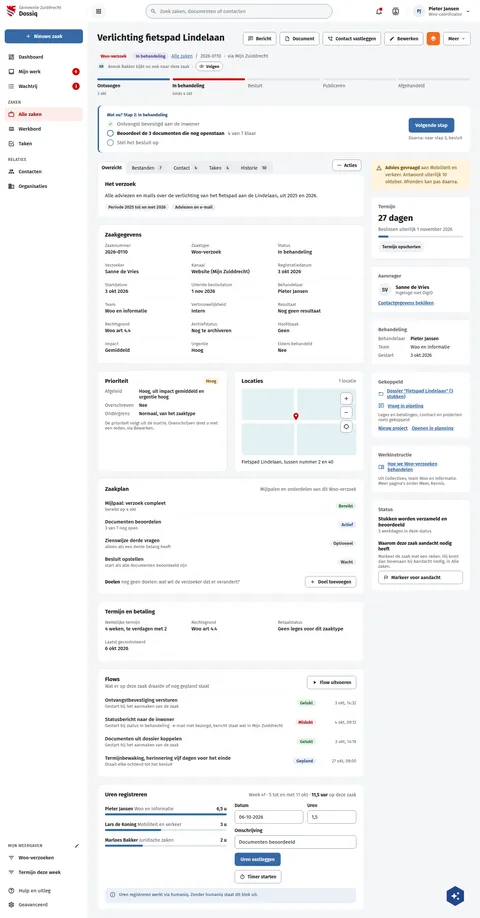
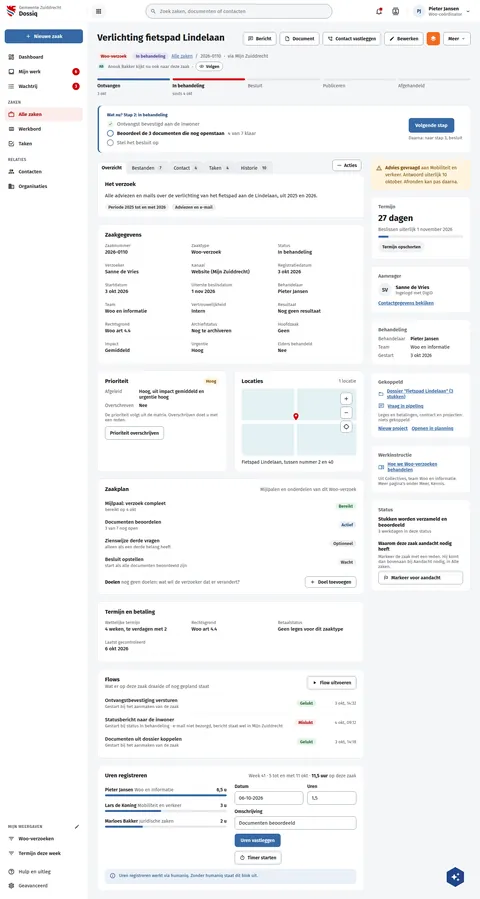
fix(screens): DqZaak and DqZaakMeer draw the priority card and flow runs dossiq has
No priority floor from the case type exists, so the Ondergrens row goes and
the card ends on the live note and its Prioriteit overschrijven button. The
flow widget lists runs, so the scheduled Termijnbewaking row goes.

Assisted-by: ClaudeCode:claude-opus-5-5

diff --git a/preview/screens/boards/DqZaak.html b/preview/screens/boards/DqZaak.html
@@ -238,8 +238,9 @@ a{color:var(--sc-primary, #3669a5)}a:hover{color:var(--sc-primary-deep, #234a78)
             <div style="display: grid; grid-template-columns: repeat(auto-fit, minmax(300px, 1fr)); gap: 20px">
               <section aria-labelledby="pr-titel" style="background: #ffffff; border: 1px solid var(--sc-work-line, #e4e6ea); border-radius: 12px; padding: 20px 22px; display: flex; flex-direction: column; gap: 12px">
                 <div style="display: flex; justify-content: space-between; align-items: center; gap: 10px"><h2 id="pr-titel" style="margin: 0; font-size: 17px; font-weight: 700">Prioriteit</h2><span style="padding: 3px 10px; border-radius: 12px; background: #fff4de; color: #7a4f00; font-size: 13px; font-weight: 600; white-space: nowrap">Hoog</span></div>
-                <dl style="margin: 0; display: grid; grid-template-columns: max-content 1fr; gap: 8px 16px; font-size: 14px"><dt style="color: var(--sc-work-muted, #5e6168)">Afgeleid</dt><dd style="margin: 0; font-weight: 500">Hoog, uit impact gemiddeld en urgentie hoog</dd><dt style="color: var(--sc-work-muted, #5e6168)">Overschreven</dt><dd style="margin: 0; font-weight: 500">Nee</dd><dt style="color: var(--sc-work-muted, #5e6168)">Ondergrens</dt><dd style="margin: 0; font-weight: 500">Normaal, van het zaaktype</dd></dl>
-                <span style="font-size: 13px; color: var(--sc-work-muted, #5e6168)">De prioriteit volgt uit de matrix. Overschrijven doet u met een reden, via Bewerken.</span>
+                <dl style="margin: 0; display: grid; grid-template-columns: max-content 1fr; gap: 8px 16px; font-size: 14px"><dt style="color: var(--sc-work-muted, #5e6168)">Afgeleid</dt><dd style="margin: 0; font-weight: 500">Hoog, uit impact gemiddeld en urgentie hoog</dd><dt style="color: var(--sc-work-muted, #5e6168)">Overschreven</dt><dd style="margin: 0; font-weight: 500">Nee</dd></dl>
+                <span style="font-size: 13px; color: var(--sc-work-muted, #5e6168)">De prioriteit volgt uit de matrix. Overschrijven doet u met een reden.</span>
+                <button type="button" style="align-self: flex-start; display: inline-flex; align-items: center; gap: 8px; height: 40px; padding: 0 14px; border: 1px solid var(--sc-work-field, #828a95); border-radius: 8px; background: #ffffff; font: 600 14px var(--sc-font, 'Fira Sans'), sans-serif; color: var(--sc-work-ink, #1b1c1d)">Prioriteit overschrijven</button>
               </section>
               <section aria-labelledby="lo-titel" style="background: #ffffff; border: 1px solid var(--sc-work-line, #e4e6ea); border-radius: 12px; padding: 20px 22px; display: flex; flex-direction: column; gap: 12px">
                 <div style="display: flex; justify-content: space-between; align-items: center; gap: 10px"><h2 id="lo-titel" style="margin: 0; font-size: 17px; font-weight: 700">Locaties</h2><span style="font-size: 14px; color: var(--sc-work-muted, #5e6168)">1 locatie</span></div>
@@ -257,7 +258,7 @@ a{color:var(--sc-primary, #3669a5)}a:hover{color:var(--sc-primary-deep, #234a78)
             </section>
             <section aria-labelledby="fl-titel" style="background: #ffffff; border: 1px solid var(--sc-work-line, #e4e6ea); border-radius: 12px; padding: 20px 22px; display: flex; flex-direction: column; gap: 14px; gap: 4px">
               <div style="display: flex; flex-wrap: wrap; justify-content: space-between; align-items: center; gap: 10px; margin-bottom: 8px"><div style="display: flex; flex-direction: column; gap: 2px"><h2 id="fl-titel" style="margin: 0; font-size: 17px; font-weight: 700">Flows</h2><span style="font-size: 14px; color: var(--sc-work-muted, #5e6168)">Wat er op deze zaak draaide of nog gepland staat</span></div><button type="button" style="display: inline-flex; align-items: center; gap: 8px; height: 40px; padding: 0 14px; border: 1px solid var(--sc-work-field, #828a95); border-radius: 8px; background: #ffffff; font: 600 14px var(--sc-font, 'Fira Sans'), sans-serif; color: var(--sc-work-ink, #1b1c1d)"><svg width="16" height="16" viewbox="0 0 24 24" fill="currentColor" aria-hidden="true"><path d="M8,5.14V19.14L19,12.14L8,5.14Z"></path></svg>Flow uitvoeren</button></div>
-              <ul style="margin: 0; padding: 0; list-style: none; display: flex; flex-direction: column"><li style="display: flex; flex-wrap: wrap; gap: 6px 16px; align-items: center; padding: 11px 0; border-top: 1px solid var(--sc-work-soft, #eef0f3)"><span style="flex: 1 1 260px; min-width: 0; display: flex; flex-direction: column; gap: 2px"><span style="font-size: 15px; font-weight: 500">Ontvangstbevestiging versturen</span><span style="font-size: 13px; color: var(--sc-work-muted, #5e6168)">Gestart bij het aanmaken van de zaak</span></span><span style="display: inline-block; padding: 3px 10px; border-radius: 12px; font-size: 13px; font-weight: 600; white-space: nowrap; background: #e7f3ea; color: #1e6b2a">Gelukt</span><span style="flex: 0 0 104px; font-size: 13px; color: var(--sc-work-muted, #5e6168); text-align: right">3 okt, 14:32</span></li><li style="display: flex; flex-wrap: wrap; gap: 6px 16px; align-items: center; padding: 11px 0; border-top: 1px solid var(--sc-work-soft, #eef0f3)"><span style="flex: 1 1 260px; min-width: 0; display: flex; flex-direction: column; gap: 2px"><span style="font-size: 15px; font-weight: 500">Statusbericht naar de inwoner</span><span style="font-size: 13px; color: var(--sc-work-muted, #5e6168)">Gestart bij status In behandeling · e-mail niet bezorgd, bericht staat wel in Mijn Zuiddrecht</span></span><span style="display: inline-block; padding: 3px 10px; border-radius: 12px; font-size: 13px; font-weight: 600; white-space: nowrap; background: #fcedec; color: var(--sc-accent-deep, #a30000)">Mislukt</span><span style="flex: 0 0 104px; font-size: 13px; color: var(--sc-work-muted, #5e6168); text-align: right">4 okt, 09:12</span></li><li style="display: flex; flex-wrap: wrap; gap: 6px 16px; align-items: center; padding: 11px 0; border-top: 1px solid var(--sc-work-soft, #eef0f3)"><span style="flex: 1 1 260px; min-width: 0; display: flex; flex-direction: column; gap: 2px"><span style="font-size: 15px; font-weight: 500">Documenten uit dossier koppelen</span><span style="font-size: 13px; color: var(--sc-work-muted, #5e6168)">Gestart bij het aanmaken van de zaak</span></span><span style="display: inline-block; padding: 3px 10px; border-radius: 12px; font-size: 13px; font-weight: 600; white-space: nowrap; background: #e7f3ea; color: #1e6b2a">Gelukt</span><span style="flex: 0 0 104px; font-size: 13px; color: var(--sc-work-muted, #5e6168); text-align: right">3 okt, 14:18</span></li><li style="display: flex; flex-wrap: wrap; gap: 6px 16px; align-items: center; padding: 11px 0; border-top: 1px solid var(--sc-work-soft, #eef0f3)"><span style="flex: 1 1 260px; min-width: 0; display: flex; flex-direction: column; gap: 2px"><span style="font-size: 15px; font-weight: 500">Termijnbewaking, herinnering vijf dagen voor het einde</span><span style="font-size: 13px; color: var(--sc-work-muted, #5e6168)">Draait elke ochtend tot het besluit</span></span><span style="display: inline-block; padding: 3px 10px; border-radius: 12px; font-size: 13px; font-weight: 600; white-space: nowrap; background: var(--sc-primary-light, #eaf0f7); color: var(--sc-primary-deep, #234a78)">Gepland</span><span style="flex: 0 0 104px; font-size: 13px; color: var(--sc-work-muted, #5e6168); text-align: right">27 okt, 08:00</span></li></ul>
+              <ul style="margin: 0; padding: 0; list-style: none; display: flex; flex-direction: column"><li style="display: flex; flex-wrap: wrap; gap: 6px 16px; align-items: center; padding: 11px 0; border-top: 1px solid var(--sc-work-soft, #eef0f3)"><span style="flex: 1 1 260px; min-width: 0; display: flex; flex-direction: column; gap: 2px"><span style="font-size: 15px; font-weight: 500">Ontvangstbevestiging versturen</span><span style="font-size: 13px; color: var(--sc-work-muted, #5e6168)">Gestart bij het aanmaken van de zaak</span></span><span style="display: inline-block; padding: 3px 10px; border-radius: 12px; font-size: 13px; font-weight: 600; white-space: nowrap; background: #e7f3ea; color: #1e6b2a">Gelukt</span><span style="flex: 0 0 104px; font-size: 13px; color: var(--sc-work-muted, #5e6168); text-align: right">3 okt, 14:32</span></li><li style="display: flex; flex-wrap: wrap; gap: 6px 16px; align-items: center; padding: 11px 0; border-top: 1px solid var(--sc-work-soft, #eef0f3)"><span style="flex: 1 1 260px; min-width: 0; display: flex; flex-direction: column; gap: 2px"><span style="font-size: 15px; font-weight: 500">Statusbericht naar de inwoner</span><span style="font-size: 13px; color: var(--sc-work-muted, #5e6168)">Gestart bij status In behandeling · e-mail niet bezorgd, bericht staat wel in Mijn Zuiddrecht</span></span><span style="display: inline-block; padding: 3px 10px; border-radius: 12px; font-size: 13px; font-weight: 600; white-space: nowrap; background: #fcedec; color: var(--sc-accent-deep, #a30000)">Mislukt</span><span style="flex: 0 0 104px; font-size: 13px; color: var(--sc-work-muted, #5e6168); text-align: right">4 okt, 09:12</span></li><li style="display: flex; flex-wrap: wrap; gap: 6px 16px; align-items: center; padding: 11px 0; border-top: 1px solid var(--sc-work-soft, #eef0f3)"><span style="flex: 1 1 260px; min-width: 0; display: flex; flex-direction: column; gap: 2px"><span style="font-size: 15px; font-weight: 500">Documenten uit dossier koppelen</span><span style="font-size: 13px; color: var(--sc-work-muted, #5e6168)">Gestart bij het aanmaken van de zaak</span></span><span style="display: inline-block; padding: 3px 10px; border-radius: 12px; font-size: 13px; font-weight: 600; white-space: nowrap; background: #e7f3ea; color: #1e6b2a">Gelukt</span><span style="flex: 0 0 104px; font-size: 13px; color: var(--sc-work-muted, #5e6168); text-align: right">3 okt, 14:18</span></li></ul>
             </section>
             <section aria-labelledby="ur-titel" style="background: #ffffff; border: 1px solid var(--sc-work-line, #e4e6ea); border-radius: 12px; padding: 20px 22px; display: flex; flex-direction: column; gap: 14px">
               <div style="display: flex; flex-wrap: wrap; justify-content: space-between; align-items: baseline; gap: 8px"><h2 id="ur-titel" style="margin: 0; font-size: 17px; font-weight: 700">Uren registreren</h2><span style="font-size: 14px; color: var(--sc-work-muted, #5e6168)">Week 41 · 5 tot en met 11 okt · <strong style="color: var(--sc-work-ink, #1b1c1d)">11,5 uur</strong> op deze zaak</span></div>

diff --git a/preview/screens/boards/DqZaakMeer.html b/preview/screens/boards/DqZaakMeer.html
@@ -237,8 +237,9 @@ a{color:var(--sc-primary, #3669a5)}a:hover{color:var(--sc-primary-deep, #234a78)
             <div style="display: grid; grid-template-columns: repeat(auto-fit, minmax(300px, 1fr)); gap: 20px">
               <section aria-labelledby="pr-titel" style="background: #ffffff; border: 1px solid var(--sc-work-line, #e4e6ea); border-radius: 12px; padding: 20px 22px; display: flex; flex-direction: column; gap: 12px">
                 <div style="display: flex; justify-content: space-between; align-items: center; gap: 10px"><h2 id="pr-titel" style="margin: 0; font-size: 17px; font-weight: 700">Prioriteit</h2><span style="padding: 3px 10px; border-radius: 12px; background: #fff4de; color: #7a4f00; font-size: 13px; font-weight: 600; white-space: nowrap">Hoog</span></div>
-                <dl style="margin: 0; display: grid; grid-template-columns: max-content 1fr; gap: 8px 16px; font-size: 14px"><dt style="color: var(--sc-work-muted, #5e6168)">Afgeleid</dt><dd style="margin: 0; font-weight: 500">Hoog, uit impact gemiddeld en urgentie hoog</dd><dt style="color: var(--sc-work-muted, #5e6168)">Overschreven</dt><dd style="margin: 0; font-weight: 500">Nee</dd><dt style="color: var(--sc-work-muted, #5e6168)">Ondergrens</dt><dd style="margin: 0; font-weight: 500">Normaal, van het zaaktype</dd></dl>
-                <span style="font-size: 13px; color: var(--sc-work-muted, #5e6168)">De prioriteit volgt uit de matrix. Overschrijven doet u met een reden, via Bewerken.</span>
+                <dl style="margin: 0; display: grid; grid-template-columns: max-content 1fr; gap: 8px 16px; font-size: 14px"><dt style="color: var(--sc-work-muted, #5e6168)">Afgeleid</dt><dd style="margin: 0; font-weight: 500">Hoog, uit impact gemiddeld en urgentie hoog</dd><dt style="color: var(--sc-work-muted, #5e6168)">Overschreven</dt><dd style="margin: 0; font-weight: 500">Nee</dd></dl>
+                <span style="font-size: 13px; color: var(--sc-work-muted, #5e6168)">De prioriteit volgt uit de matrix. Overschrijven doet u met een reden.</span>
+                <button type="button" style="align-self: flex-start; display: inline-flex; align-items: center; gap: 8px; height: 40px; padding: 0 14px; border: 1px solid var(--sc-work-field, #828a95); border-radius: 8px; background: #ffffff; font: 600 14px var(--sc-font, 'Fira Sans'), sans-serif; color: var(--sc-work-ink, #1b1c1d)">Prioriteit overschrijven</button>
               </section>
               <section aria-labelledby="lo-titel" style="background: #ffffff; border: 1px solid var(--sc-work-line, #e4e6ea); border-radius: 12px; padding: 20px 22px; display: flex; flex-direction: column; gap: 12px">
                 <div style="display: flex; justify-content: space-between; align-items: center; gap: 10px"><h2 id="lo-titel" style="margin: 0; font-size: 17px; font-weight: 700">Locaties</h2><span style="font-size: 14px; color: var(--sc-work-muted, #5e6168)">1 locatie</span></div>
@@ -256,7 +257,7 @@ a{color:var(--sc-primary, #3669a5)}a:hover{color:var(--sc-primary-deep, #234a78)
             </section>
             <section aria-labelledby="fl-titel" style="background: #ffffff; border: 1px solid var(--sc-work-line, #e4e6ea); border-radius: 12px; padding: 20px 22px; display: flex; flex-direction: column; gap: 14px; gap: 4px">
               <div style="display: flex; flex-wrap: wrap; justify-content: space-between; align-items: center; gap: 10px; margin-bottom: 8px"><div style="display: flex; flex-direction: column; gap: 2px"><h2 id="fl-titel" style="margin: 0; font-size: 17px; font-weight: 700">Flows</h2><span style="font-size: 14px; color: var(--sc-work-muted, #5e6168)">Wat er op deze zaak draaide of nog gepland staat</span></div><button type="button" style="display: inline-flex; align-items: center; gap: 8px; height: 40px; padding: 0 14px; border: 1px solid var(--sc-work-field, #828a95); border-radius: 8px; background: #ffffff; font: 600 14px var(--sc-font, 'Fira Sans'), sans-serif; color: var(--sc-work-ink, #1b1c1d)"><svg width="16" height="16" viewbox="0 0 24 24" fill="currentColor" aria-hidden="true"><path d="M8,5.14V19.14L19,12.14L8,5.14Z"></path></svg>Flow uitvoeren</button></div>
-              <ul style="margin: 0; padding: 0; list-style: none; display: flex; flex-direction: column"><li style="display: flex; flex-wrap: wrap; gap: 6px 16px; align-items: center; padding: 11px 0; border-top: 1px solid var(--sc-work-soft, #eef0f3)"><span style="flex: 1 1 260px; min-width: 0; display: flex; flex-direction: column; gap: 2px"><span style="font-size: 15px; font-weight: 500">Ontvangstbevestiging versturen</span><span style="font-size: 13px; color: var(--sc-work-muted, #5e6168)">Gestart bij het aanmaken van de zaak</span></span><span style="display: inline-block; padding: 3px 10px; border-radius: 12px; font-size: 13px; font-weight: 600; white-space: nowrap; background: #e7f3ea; color: #1e6b2a">Gelukt</span><span style="flex: 0 0 104px; font-size: 13px; color: var(--sc-work-muted, #5e6168); text-align: right">3 okt, 14:32</span></li><li style="display: flex; flex-wrap: wrap; gap: 6px 16px; align-items: center; padding: 11px 0; border-top: 1px solid var(--sc-work-soft, #eef0f3)"><span style="flex: 1 1 260px; min-width: 0; display: flex; flex-direction: column; gap: 2px"><span style="font-size: 15px; font-weight: 500">Statusbericht naar de inwoner</span><span style="font-size: 13px; color: var(--sc-work-muted, #5e6168)">Gestart bij status In behandeling · e-mail niet bezorgd, bericht staat wel in Mijn Zuiddrecht</span></span><span style="display: inline-block; padding: 3px 10px; border-radius: 12px; font-size: 13px; font-weight: 600; white-space: nowrap; background: #fcedec; color: var(--sc-accent-deep, #a30000)">Mislukt</span><span style="flex: 0 0 104px; font-size: 13px; color: var(--sc-work-muted, #5e6168); text-align: right">4 okt, 09:12</span></li><li style="display: flex; flex-wrap: wrap; gap: 6px 16px; align-items: center; padding: 11px 0; border-top: 1px solid var(--sc-work-soft, #eef0f3)"><span style="flex: 1 1 260px; min-width: 0; display: flex; flex-direction: column; gap: 2px"><span style="font-size: 15px; font-weight: 500">Documenten uit dossier koppelen</span><span style="font-size: 13px; color: var(--sc-work-muted, #5e6168)">Gestart bij het aanmaken van de zaak</span></span><span style="display: inline-block; padding: 3px 10px; border-radius: 12px; font-size: 13px; font-weight: 600; white-space: nowrap; background: #e7f3ea; color: #1e6b2a">Gelukt</span><span style="flex: 0 0 104px; font-size: 13px; color: var(--sc-work-muted, #5e6168); text-align: right">3 okt, 14:18</span></li><li style="display: flex; flex-wrap: wrap; gap: 6px 16px; align-items: center; padding: 11px 0; border-top: 1px solid var(--sc-work-soft, #eef0f3)"><span style="flex: 1 1 260px; min-width: 0; display: flex; flex-direction: column; gap: 2px"><span style="font-size: 15px; font-weight: 500">Termijnbewaking, herinnering vijf dagen voor het einde</span><span style="font-size: 13px; color: var(--sc-work-muted, #5e6168)">Draait elke ochtend tot het besluit</span></span><span style="display: inline-block; padding: 3px 10px; border-radius: 12px; font-size: 13px; font-weight: 600; white-space: nowrap; background: var(--sc-primary-light, #eaf0f7); color: var(--sc-primary-deep, #234a78)">Gepland</span><span style="flex: 0 0 104px; font-size: 13px; color: var(--sc-work-muted, #5e6168); text-align: right">27 okt, 08:00</span></li></ul>
+              <ul style="margin: 0; padding: 0; list-style: none; display: flex; flex-direction: column"><li style="display: flex; flex-wrap: wrap; gap: 6px 16px; align-items: center; padding: 11px 0; border-top: 1px solid var(--sc-work-soft, #eef0f3)"><span style="flex: 1 1 260px; min-width: 0; display: flex; flex-direction: column; gap: 2px"><span style="font-size: 15px; font-weight: 500">Ontvangstbevestiging versturen</span><span style="font-size: 13px; color: var(--sc-work-muted, #5e6168)">Gestart bij het aanmaken van de zaak</span></span><span style="display: inline-block; padding: 3px 10px; border-radius: 12px; font-size: 13px; font-weight: 600; white-space: nowrap; background: #e7f3ea; color: #1e6b2a">Gelukt</span><span style="flex: 0 0 104px; font-size: 13px; color: var(--sc-work-muted, #5e6168); text-align: right">3 okt, 14:32</span></li><li style="display: flex; flex-wrap: wrap; gap: 6px 16px; align-items: center; padding: 11px 0; border-top: 1px solid var(--sc-work-soft, #eef0f3)"><span style="flex: 1 1 260px; min-width: 0; display: flex; flex-direction: column; gap: 2px"><span style="font-size: 15px; font-weight: 500">Statusbericht naar de inwoner</span><span style="font-size: 13px; color: var(--sc-work-muted, #5e6168)">Gestart bij status In behandeling · e-mail niet bezorgd, bericht staat wel in Mijn Zuiddrecht</span></span><span style="display: inline-block; padding: 3px 10px; border-radius: 12px; font-size: 13px; font-weight: 600; white-space: nowrap; background: #fcedec; color: var(--sc-accent-deep, #a30000)">Mislukt</span><span style="flex: 0 0 104px; font-size: 13px; color: var(--sc-work-muted, #5e6168); text-align: right">4 okt, 09:12</span></li><li style="display: flex; flex-wrap: wrap; gap: 6px 16px; align-items: center; padding: 11px 0; border-top: 1px solid var(--sc-work-soft, #eef0f3)"><span style="flex: 1 1 260px; min-width: 0; display: flex; flex-direction: column; gap: 2px"><span style="font-size: 15px; font-weight: 500">Documenten uit dossier koppelen</span><span style="font-size: 13px; color: var(--sc-work-muted, #5e6168)">Gestart bij het aanmaken van de zaak</span></span><span style="display: inline-block; padding: 3px 10px; border-radius: 12px; font-size: 13px; font-weight: 600; white-space: nowrap; background: #e7f3ea; color: #1e6b2a">Gelukt</span><span style="flex: 0 0 104px; font-size: 13px; color: var(--sc-work-muted, #5e6168); text-align: right">3 okt, 14:18</span></li></ul>
             </section>
             <section aria-labelledby="ur-titel" style="background: #ffffff; border: 1px solid var(--sc-work-line, #e4e6ea); border-radius: 12px; padding: 20px 22px; display: flex; flex-direction: column; gap: 14px">
               <div style="display: flex; flex-wrap: wrap; justify-content: space-between; align-items: baseline; gap: 8px"><h2 id="ur-titel" style="margin: 0; font-size: 17px; font-weight: 700">Uren registreren</h2><span style="font-size: 14px; color: var(--sc-work-muted, #5e6168)">Week 41 · 5 tot en met 11 okt · <strong style="color: var(--sc-work-ink, #1b1c1d)">11,5 uur</strong> op deze zaak</span></div>

diff --git a/screens-src/zuiddrecht/DqZaak.dc.html b/screens-src/zuiddrecht/DqZaak.dc.html
@@ -88,8 +88,9 @@ a{color:#3669a5}a:hover{color:#234a78}
             <div style="display: grid; grid-template-columns: repeat(auto-fit, minmax(300px, 1fr)); gap: 20px">
               <section aria-labelledby="pr-titel" style="background: #ffffff; border: 1px solid #e4e6ea; border-radius: 12px; padding: 20px 22px; display: flex; flex-direction: column; gap: 12px">
                 <div style="display: flex; justify-content: space-between; align-items: center; gap: 10px"><h2 id="pr-titel" style="margin: 0; font-size: 17px; font-weight: 700">Prioriteit</h2><span style="padding: 3px 10px; border-radius: 12px; background: #fff4de; color: #7a4f00; font-size: 13px; font-weight: 600; white-space: nowrap">Hoog</span></div>
-                <dl style="margin: 0; display: grid; grid-template-columns: max-content 1fr; gap: 8px 16px; font-size: 14px"><dt style="color: #5e6168">Afgeleid</dt><dd style="margin: 0; font-weight: 500">Hoog, uit impact gemiddeld en urgentie hoog</dd><dt style="color: #5e6168">Overschreven</dt><dd style="margin: 0; font-weight: 500">Nee</dd><dt style="color: #5e6168">Ondergrens</dt><dd style="margin: 0; font-weight: 500">Normaal, van het zaaktype</dd></dl>
-                <span style="font-size: 13px; color: #5e6168">De prioriteit volgt uit de matrix. Overschrijven doet u met een reden, via Bewerken.</span>
+                <dl style="margin: 0; display: grid; grid-template-columns: max-content 1fr; gap: 8px 16px; font-size: 14px"><dt style="color: #5e6168">Afgeleid</dt><dd style="margin: 0; font-weight: 500">Hoog, uit impact gemiddeld en urgentie hoog</dd><dt style="color: #5e6168">Overschreven</dt><dd style="margin: 0; font-weight: 500">Nee</dd></dl>
+                <span style="font-size: 13px; color: #5e6168">De prioriteit volgt uit de matrix. Overschrijven doet u met een reden.</span>
+                <button type="button" style="align-self: flex-start; display: inline-flex; align-items: center; gap: 8px; height: 40px; padding: 0 14px; border: 1px solid #828a95; border-radius: 8px; background: #ffffff; font: 600 14px 'Fira Sans', sans-serif; color: #1b1c1d">Prioriteit overschrijven</button>
               </section>
               <section aria-labelledby="lo-titel" style="background: #ffffff; border: 1px solid #e4e6ea; border-radius: 12px; padding: 20px 22px; display: flex; flex-direction: column; gap: 12px">
                 <div style="display: flex; justify-content: space-between; align-items: center; gap: 10px"><h2 id="lo-titel" style="margin: 0; font-size: 17px; font-weight: 700">Locaties</h2><span style="font-size: 14px; color: #5e6168">1 locatie</span></div>
@@ -107,7 +108,7 @@ a{color:#3669a5}a:hover{color:#234a78}
             </section>
             <section aria-labelledby="fl-titel" style="background: #ffffff; border: 1px solid #e4e6ea; border-radius: 12px; padding: 20px 22px; display: flex; flex-direction: column; gap: 14px; gap: 4px">
               <div style="display: flex; flex-wrap: wrap; justify-content: space-between; align-items: center; gap: 10px; margin-bottom: 8px"><div style="display: flex; flex-direction: column; gap: 2px"><h2 id="fl-titel" style="margin: 0; font-size: 17px; font-weight: 700">Flows</h2><span style="font-size: 14px; color: #5e6168">Wat er op deze zaak draaide of nog gepland staat</span></div><button type="button" style="display: inline-flex; align-items: center; gap: 8px; height: 40px; padding: 0 14px; border: 1px solid #828a95; border-radius: 8px; background: #ffffff; font: 600 14px 'Fira Sans', sans-serif; color: #1b1c1d"><svg width="16" height="16" viewBox="0 0 24 24" fill="currentColor" aria-hidden="true"><path d="M8,5.14V19.14L19,12.14L8,5.14Z"></path></svg>Flow uitvoeren</button></div>
-              <ul style="margin: 0; padding: 0; list-style: none; display: flex; flex-direction: column"><li style="display: flex; flex-wrap: wrap; gap: 6px 16px; align-items: center; padding: 11px 0; border-top: 1px solid #eef0f3"><span style="flex: 1 1 260px; min-width: 0; display: flex; flex-direction: column; gap: 2px"><span style="font-size: 15px; font-weight: 500">Ontvangstbevestiging versturen</span><span style="font-size: 13px; color: #5e6168">Gestart bij het aanmaken van de zaak</span></span><span style="display: inline-block; padding: 3px 10px; border-radius: 12px; font-size: 13px; font-weight: 600; white-space: nowrap; background: #e7f3ea; color: #1e6b2a">Gelukt</span><span style="flex: 0 0 104px; font-size: 13px; color: #5e6168; text-align: right">3 okt, 14:32</span></li><li style="display: flex; flex-wrap: wrap; gap: 6px 16px; align-items: center; padding: 11px 0; border-top: 1px solid #eef0f3"><span style="flex: 1 1 260px; min-width: 0; display: flex; flex-direction: column; gap: 2px"><span style="font-size: 15px; font-weight: 500">Statusbericht naar de inwoner</span><span style="font-size: 13px; color: #5e6168">Gestart bij status In behandeling · e-mail niet bezorgd, bericht staat wel in Mijn Zuiddrecht</span></span><span style="display: inline-block; padding: 3px 10px; border-radius: 12px; font-size: 13px; font-weight: 600; white-space: nowrap; background: #fcedec; color: #a30000">Mislukt</span><span style="flex: 0 0 104px; font-size: 13px; color: #5e6168; text-align: right">4 okt, 09:12</span></li><li style="display: flex; flex-wrap: wrap; gap: 6px 16px; align-items: center; padding: 11px 0; border-top: 1px solid #eef0f3"><span style="flex: 1 1 260px; min-width: 0; display: flex; flex-direction: column; gap: 2px"><span style="font-size: 15px; font-weight: 500">Documenten uit dossier koppelen</span><span style="font-size: 13px; color: #5e6168">Gestart bij het aanmaken van de zaak</span></span><span style="display: inline-block; padding: 3px 10px; border-radius: 12px; font-size: 13px; font-weight: 600; white-space: nowrap; background: #e7f3ea; color: #1e6b2a">Gelukt</span><span style="flex: 0 0 104px; font-size: 13px; color: #5e6168; text-align: right">3 okt, 14:18</span></li><li style="display: flex; flex-wrap: wrap; gap: 6px 16px; align-items: center; padding: 11px 0; border-top: 1px solid #eef0f3"><span style="flex: 1 1 260px; min-width: 0; display: flex; flex-direction: column; gap: 2px"><span style="font-size: 15px; font-weight: 500">Termijnbewaking, herinnering vijf dagen voor het einde</span><span style="font-size: 13px; color: #5e6168">Draait elke ochtend tot het besluit</span></span><span style="display: inline-block; padding: 3px 10px; border-radius: 12px; font-size: 13px; font-weight: 600; white-space: nowrap; background: #eaf0f7; color: #234a78">Gepland</span><span style="flex: 0 0 104px; font-size: 13px; color: #5e6168; text-align: right">27 okt, 08:00</span></li></ul>
+              <ul style="margin: 0; padding: 0; list-style: none; display: flex; flex-direction: column"><li style="display: flex; flex-wrap: wrap; gap: 6px 16px; align-items: center; padding: 11px 0; border-top: 1px solid #eef0f3"><span style="flex: 1 1 260px; min-width: 0; display: flex; flex-direction: column; gap: 2px"><span style="font-size: 15px; font-weight: 500">Ontvangstbevestiging versturen</span><span style="font-size: 13px; color: #5e6168">Gestart bij het aanmaken van de zaak</span></span><span style="display: inline-block; padding: 3px 10px; border-radius: 12px; font-size: 13px; font-weight: 600; white-space: nowrap; background: #e7f3ea; color: #1e6b2a">Gelukt</span><span style="flex: 0 0 104px; font-size: 13px; color: #5e6168; text-align: right">3 okt, 14:32</span></li><li style="display: flex; flex-wrap: wrap; gap: 6px 16px; align-items: center; padding: 11px 0; border-top: 1px solid #eef0f3"><span style="flex: 1 1 260px; min-width: 0; display: flex; flex-direction: column; gap: 2px"><span style="font-size: 15px; font-weight: 500">Statusbericht naar de inwoner</span><span style="font-size: 13px; color: #5e6168">Gestart bij status In behandeling · e-mail niet bezorgd, bericht staat wel in Mijn Zuiddrecht</span></span><span style="display: inline-block; padding: 3px 10px; border-radius: 12px; font-size: 13px; font-weight: 600; white-space: nowrap; background: #fcedec; color: #a30000">Mislukt</span><span style="flex: 0 0 104px; font-size: 13px; color: #5e6168; text-align: right">4 okt, 09:12</span></li><li style="display: flex; flex-wrap: wrap; gap: 6px 16px; align-items: center; padding: 11px 0; border-top: 1px solid #eef0f3"><span style="flex: 1 1 260px; min-width: 0; display: flex; flex-direction: column; gap: 2px"><span style="font-size: 15px; font-weight: 500">Documenten uit dossier koppelen</span><span style="font-size: 13px; color: #5e6168">Gestart bij het aanmaken van de zaak</span></span><span style="display: inline-block; padding: 3px 10px; border-radius: 12px; font-size: 13px; font-weight: 600; white-space: nowrap; background: #e7f3ea; color: #1e6b2a">Gelukt</span><span style="flex: 0 0 104px; font-size: 13px; color: #5e6168; text-align: right">3 okt, 14:18</span></li></ul>
             </section>
             <section aria-labelledby="ur-titel" style="background: #ffffff; border: 1px solid #e4e6ea; border-radius: 12px; padding: 20px 22px; display: flex; flex-direction: column; gap: 14px">
               <div style="display: flex; flex-wrap: wrap; justify-content: space-between; align-items: baseline; gap: 8px"><h2 id="ur-titel" style="margin: 0; font-size: 17px; font-weight: 700">Uren registreren</h2><span style="font-size: 14px; color: #5e6168">Week 41 · 5 tot en met 11 okt · <strong style="color: #1b1c1d">11,5 uur</strong> op deze zaak</span></div>

diff --git a/screens-src/zuiddrecht/DqZaakMeer.dc.html b/screens-src/zuiddrecht/DqZaakMeer.dc.html
@@ -87,8 +87,9 @@ a{color:#3669a5}a:hover{color:#234a78}
             <div style="display: grid; grid-template-columns: repeat(auto-fit, minmax(300px, 1fr)); gap: 20px">
               <section aria-labelledby="pr-titel" style="background: #ffffff; border: 1px solid #e4e6ea; border-radius: 12px; padding: 20px 22px; display: flex; flex-direction: column; gap: 12px">
                 <div style="display: flex; justify-content: space-between; align-items: center; gap: 10px"><h2 id="pr-titel" style="margin: 0; font-size: 17px; font-weight: 700">Prioriteit</h2><span style="padding: 3px 10px; border-radius: 12px; background: #fff4de; color: #7a4f00; font-size: 13px; font-weight: 600; white-space: nowrap">Hoog</span></div>
-                <dl style="margin: 0; display: grid; grid-template-columns: max-content 1fr; gap: 8px 16px; font-size: 14px"><dt style="color: #5e6168">Afgeleid</dt><dd style="margin: 0; font-weight: 500">Hoog, uit impact gemiddeld en urgentie hoog</dd><dt style="color: #5e6168">Overschreven</dt><dd style="margin: 0; font-weight: 500">Nee</dd><dt style="color: #5e6168">Ondergrens</dt><dd style="margin: 0; font-weight: 500">Normaal, van het zaaktype</dd></dl>
-                <span style="font-size: 13px; color: #5e6168">De prioriteit volgt uit de matrix. Overschrijven doet u met een reden, via Bewerken.</span>
+                <dl style="margin: 0; display: grid; grid-template-columns: max-content 1fr; gap: 8px 16px; font-size: 14px"><dt style="color: #5e6168">Afgeleid</dt><dd style="margin: 0; font-weight: 500">Hoog, uit impact gemiddeld en urgentie hoog</dd><dt style="color: #5e6168">Overschreven</dt><dd style="margin: 0; font-weight: 500">Nee</dd></dl>
+                <span style="font-size: 13px; color: #5e6168">De prioriteit volgt uit de matrix. Overschrijven doet u met een reden.</span>
+                <button type="button" style="align-self: flex-start; display: inline-flex; align-items: center; gap: 8px; height: 40px; padding: 0 14px; border: 1px solid #828a95; border-radius: 8px; background: #ffffff; font: 600 14px 'Fira Sans', sans-serif; color: #1b1c1d">Prioriteit overschrijven</button>
               </section>
               <section aria-labelledby="lo-titel" style="background: #ffffff; border: 1px solid #e4e6ea; border-radius: 12px; padding: 20px 22px; display: flex; flex-direction: column; gap: 12px">
                 <div style="display: flex; justify-content: space-between; align-items: center; gap: 10px"><h2 id="lo-titel" style="margin: 0; font-size: 17px; font-weight: 700">Locaties</h2><span style="font-size: 14px; color: #5e6168">1 locatie</span></div>
@@ -106,7 +107,7 @@ a{color:#3669a5}a:hover{color:#234a78}
             </section>
             <section aria-labelledby="fl-titel" style="background: #ffffff; border: 1px solid #e4e6ea; border-radius: 12px; padding: 20px 22px; display: flex; flex-direction: column; gap: 14px; gap: 4px">
               <div style="display: flex; flex-wrap: wrap; justify-content: space-between; align-items: center; gap: 10px; margin-bottom: 8px"><div style="display: flex; flex-direction: column; gap: 2px"><h2 id="fl-titel" style="margin: 0; font-size: 17px; font-weight: 700">Flows</h2><span style="font-size: 14px; color: #5e6168">Wat er op deze zaak draaide of nog gepland staat</span></div><button type="button" style="display: inline-flex; align-items: center; gap: 8px; height: 40px; padding: 0 14px; border: 1px solid #828a95; border-radius: 8px; background: #ffffff; font: 600 14px 'Fira Sans', sans-serif; color: #1b1c1d"><svg width="16" height="16" viewBox="0 0 24 24" fill="currentColor" aria-hidden="true"><path d="M8,5.14V19.14L19,12.14L8,5.14Z"></path></svg>Flow uitvoeren</button></div>
-              <ul style="margin: 0; padding: 0; list-style: none; display: flex; flex-direction: column"><li style="display: flex; flex-wrap: wrap; gap: 6px 16px; align-items: center; padding: 11px 0; border-top: 1px solid #eef0f3"><span style="flex: 1 1 260px; min-width: 0; display: flex; flex-direction: column; gap: 2px"><span style="font-size: 15px; font-weight: 500">Ontvangstbevestiging versturen</span><span style="font-size: 13px; color: #5e6168">Gestart bij het aanmaken van de zaak</span></span><span style="display: inline-block; padding: 3px 10px; border-radius: 12px; font-size: 13px; font-weight: 600; white-space: nowrap; background: #e7f3ea; color: #1e6b2a">Gelukt</span><span style="flex: 0 0 104px; font-size: 13px; color: #5e6168; text-align: right">3 okt, 14:32</span></li><li style="display: flex; flex-wrap: wrap; gap: 6px 16px; align-items: center; padding: 11px 0; border-top: 1px solid #eef0f3"><span style="flex: 1 1 260px; min-width: 0; display: flex; flex-direction: column; gap: 2px"><span style="font-size: 15px; font-weight: 500">Statusbericht naar de inwoner</span><span style="font-size: 13px; color: #5e6168">Gestart bij status In behandeling · e-mail niet bezorgd, bericht staat wel in Mijn Zuiddrecht</span></span><span style="display: inline-block; padding: 3px 10px; border-radius: 12px; font-size: 13px; font-weight: 600; white-space: nowrap; background: #fcedec; color: #a30000">Mislukt</span><span style="flex: 0 0 104px; font-size: 13px; color: #5e6168; text-align: right">4 okt, 09:12</span></li><li style="display: flex; flex-wrap: wrap; gap: 6px 16px; align-items: center; padding: 11px 0; border-top: 1px solid #eef0f3"><span style="flex: 1 1 260px; min-width: 0; display: flex; flex-direction: column; gap: 2px"><span style="font-size: 15px; font-weight: 500">Documenten uit dossier koppelen</span><span style="font-size: 13px; color: #5e6168">Gestart bij het aanmaken van de zaak</span></span><span style="display: inline-block; padding: 3px 10px; border-radius: 12px; font-size: 13px; font-weight: 600; white-space: nowrap; background: #e7f3ea; color: #1e6b2a">Gelukt</span><span style="flex: 0 0 104px; font-size: 13px; color: #5e6168; text-align: right">3 okt, 14:18</span></li><li style="display: flex; flex-wrap: wrap; gap: 6px 16px; align-items: center; padding: 11px 0; border-top: 1px solid #eef0f3"><span style="flex: 1 1 260px; min-width: 0; display: flex; flex-direction: column; gap: 2px"><span style="font-size: 15px; font-weight: 500">Termijnbewaking, herinnering vijf dagen voor het einde</span><span style="font-size: 13px; color: #5e6168">Draait elke ochtend tot het besluit</span></span><span style="display: inline-block; padding: 3px 10px; border-radius: 12px; font-size: 13px; font-weight: 600; white-space: nowrap; background: #eaf0f7; color: #234a78">Gepland</span><span style="flex: 0 0 104px; font-size: 13px; color: #5e6168; text-align: right">27 okt, 08:00</span></li></ul>
+              <ul style="margin: 0; padding: 0; list-style: none; display: flex; flex-direction: column"><li style="display: flex; flex-wrap: wrap; gap: 6px 16px; align-items: center; padding: 11px 0; border-top: 1px solid #eef0f3"><span style="flex: 1 1 260px; min-width: 0; display: flex; flex-direction: column; gap: 2px"><span style="font-size: 15px; font-weight: 500">Ontvangstbevestiging versturen</span><span style="font-size: 13px; color: #5e6168">Gestart bij het aanmaken van de zaak</span></span><span style="display: inline-block; padding: 3px 10px; border-radius: 12px; font-size: 13px; font-weight: 600; white-space: nowrap; background: #e7f3ea; color: #1e6b2a">Gelukt</span><span style="flex: 0 0 104px; font-size: 13px; color: #5e6168; text-align: right">3 okt, 14:32</span></li><li style="display: flex; flex-wrap: wrap; gap: 6px 16px; align-items: center; padding: 11px 0; border-top: 1px solid #eef0f3"><span style="flex: 1 1 260px; min-width: 0; display: flex; flex-direction: column; gap: 2px"><span style="font-size: 15px; font-weight: 500">Statusbericht naar de inwoner</span><span style="font-size: 13px; color: #5e6168">Gestart bij status In behandeling · e-mail niet bezorgd, bericht staat wel in Mijn Zuiddrecht</span></span><span style="display: inline-block; padding: 3px 10px; border-radius: 12px; font-size: 13px; font-weight: 600; white-space: nowrap; background: #fcedec; color: #a30000">Mislukt</span><span style="flex: 0 0 104px; font-size: 13px; color: #5e6168; text-align: right">4 okt, 09:12</span></li><li style="display: flex; flex-wrap: wrap; gap: 6px 16px; align-items: center; padding: 11px 0; border-top: 1px solid #eef0f3"><span style="flex: 1 1 260px; min-width: 0; display: flex; flex-direction: column; gap: 2px"><span style="font-size: 15px; font-weight: 500">Documenten uit dossier koppelen</span><span style="font-size: 13px; color: #5e6168">Gestart bij het aanmaken van de zaak</span></span><span style="display: inline-block; padding: 3px 10px; border-radius: 12px; font-size: 13px; font-weight: 600; white-space: nowrap; background: #e7f3ea; color: #1e6b2a">Gelukt</span><span style="flex: 0 0 104px; font-size: 13px; color: #5e6168; text-align: right">3 okt, 14:18</span></li></ul>
             </section>
             <section aria-labelledby="ur-titel" style="background: #ffffff; border: 1px solid #e4e6ea; border-radius: 12px; padding: 20px 22px; display: flex; flex-direction: column; gap: 14px">
               <div style="display: flex; flex-wrap: wrap; justify-content: space-between; align-items: baseline; gap: 8px"><h2 id="ur-titel" style="margin: 0; font-size: 17px; font-weight: 700">Uren registreren</h2><span style="font-size: 14px; color: #5e6168">Week 41 · 5 tot en met 11 okt · <strong style="color: #1b1c1d">11,5 uur</strong> op deze zaak</span></div>
